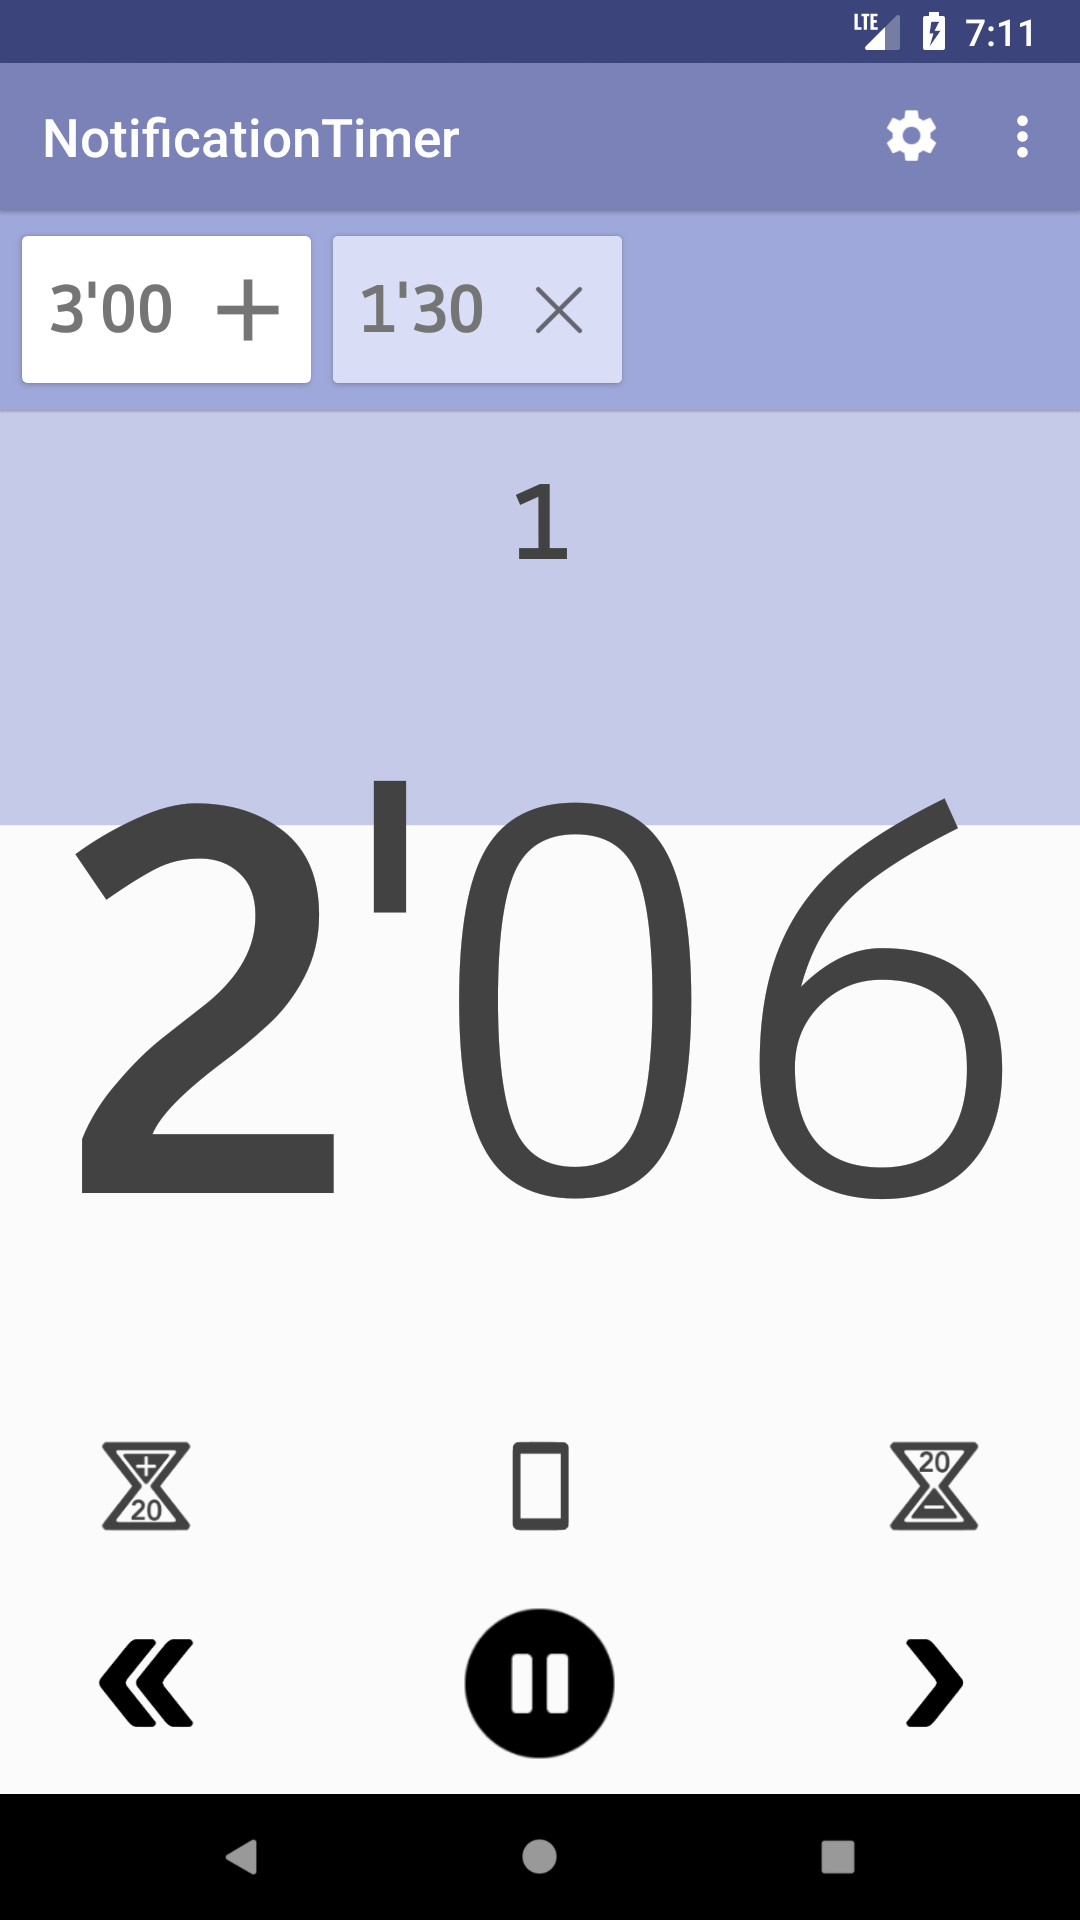
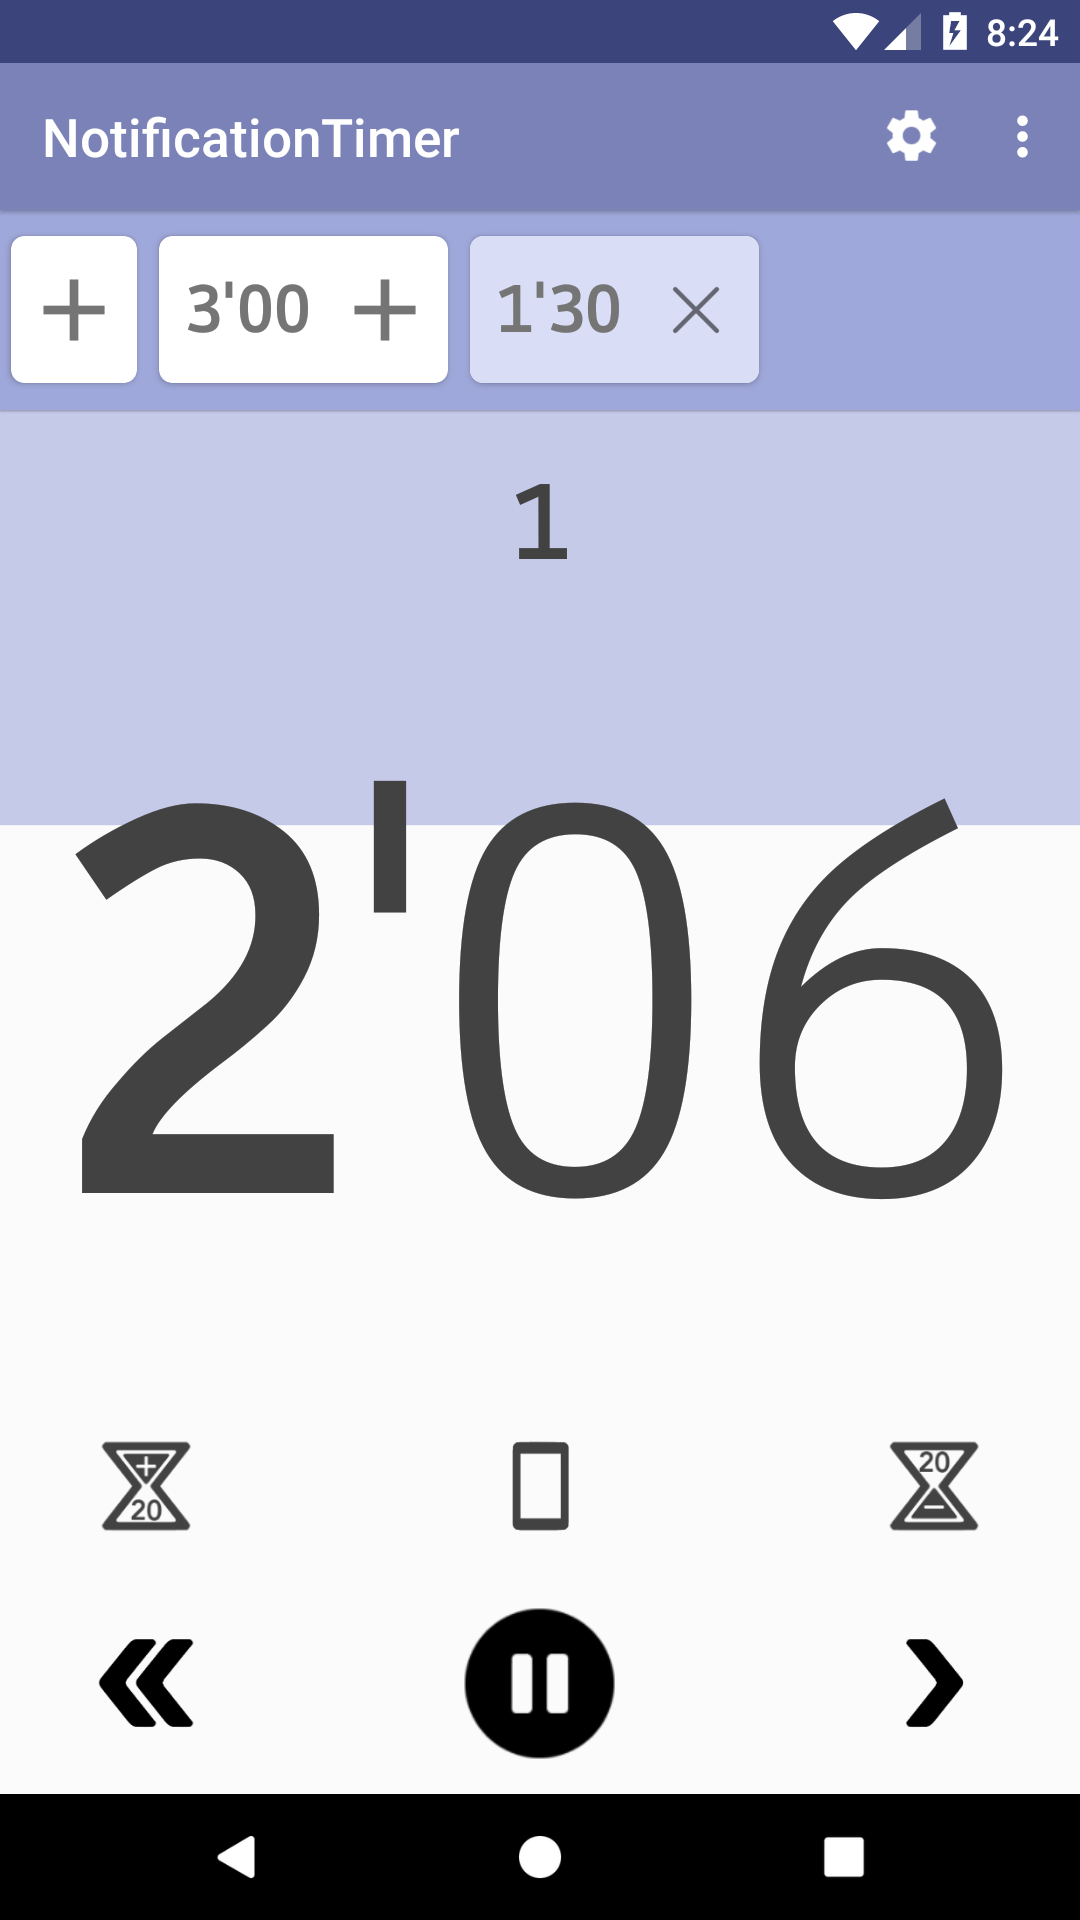
Update screenshots and tutorial images with the new preset layout, put back tutorial images in the README file

diff --git a/README.md b/README.md
@@ -38,6 +38,10 @@ The background color can be customized or disabled from the settings. These colo
 
 <img src="screenshots/Activity_running.png" width="350"/> <img src="screenshots/Activity_running_get_ready.png" width="350"/> <img src="screenshots/Activity_running_multi.png" width="350"/> <img src="screenshots/Notification_screen_locked.png" width="350"/>
 
+### Tutorial
+
+<img src="src/main/res/drawable-xxxhdpi/help_0_add.png" width="350"/> <img src="src/main/res/drawable-xxxhdpi/help_1_ready.png" width="350"/> <img src="src/main/res/drawable-xxxhdpi/help_2_running.png" width="350"/> <img src="src/main/res/drawable-xxxhdpi/help_3_running.png" width="350"/> <img src="src/main/res/drawable-xxxhdpi/help_4_ready.png" width="350"/> <img src="src/main/res/drawable-xxxhdpi/help_5_running.png" width="350"/>
+
 ## License
 
 Copyright 2018 Guillaume Militello
